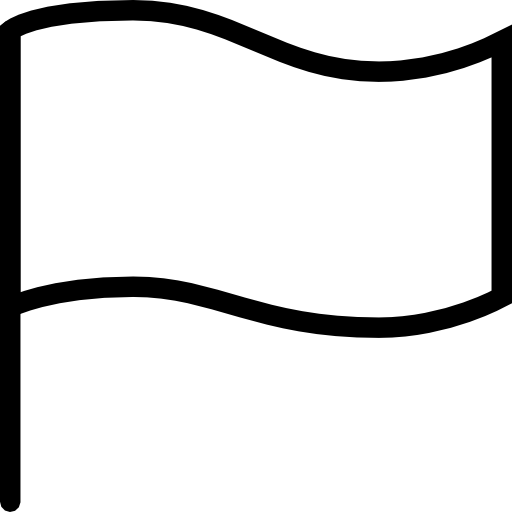
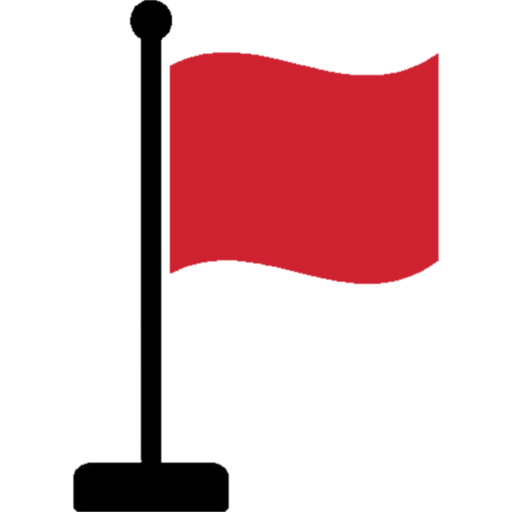
- graphics improved: images updated, numbers now have colours, cells now have an animation

diff --git a/Cell.cpp b/Cell.cpp
@@ -11,16 +11,19 @@ Cell::Cell(sf::Vector2i indexes, float side, sf::Font font) : indexes(indexes), 
     cellUnknownRect.rect.setPosition({pos.x + side / 2, pos.y + side / 2});
     cellDiscoveredRect.rect.setPosition({pos.x + side / 2, pos.y + side / 2});
 
+    if (!bombTexture.loadFromFile("Assets/Images/mine.png")) {
+        cout << "mine texture loading failed" << endl;
+        system("pause");
+    }
+    bombSprite.setScale({side * 0.75f / bombTexture.getSize().x, side * 0.75f / bombTexture.getSize().y});
     bombSprite.setPosition({pos.x + side / 2, pos.y + side / 2});
-    bombSprite.setOrigin({side / 3, side / 3});
-    bombSprite.setRadius(side / 3);
-    bombSprite.setFillColor(sf::Color::Black);
+    bombSprite.setOrigin({bombTexture.getSize().x / 2.f, bombTexture.getSize().y / 2.f});
 
     if (!flagTexture.loadFromFile("Assets/Images/flag.png")) {
         cout << "flag texture loading failed" << endl;
         system("pause");
     }
-    flagSprite.setScale({side * 0.5f / flagTexture.getSize().x, side * 0.5f / flagTexture.getSize().y});
+    flagSprite.setScale({side * 0.75f / flagTexture.getSize().x, side * 0.75f / flagTexture.getSize().y});
     flagSprite.setPosition({pos.x + side / 2, pos.y + side / 2});
     flagSprite.setOrigin({flagTexture.getSize().x / 2.f, flagTexture.getSize().y / 2.f});
 
@@ -37,28 +40,35 @@ void Cell::draw(sf::RenderWindow &window) {
     } else if (discovered) {
         cellDiscoveredRect.draw(window);
 
-        if (bomb)
-            window.draw(bombSprite);
+        if (!cellDiscoveredRect.isExpanding()) {
+            if (bomb) {
+                bombSprite.setTexture(bombTexture);
+                window.draw(bombSprite);
+            }
 
-        text.setString(to_string(adjacentBombs));
-        text.setFont(font);
-        text.setOrigin(text.getLocalBounds().width / 2 + text.getLocalBounds().left,
-                       text.getLocalBounds().height / 2 + text.getLocalBounds().top);
-        if (adjacentBombs != 0)
-            window.draw(text);
+            text.setString(to_string(adjacentBombs));
+            text.setFont(font);
+            text.setOrigin(text.getLocalBounds().width / 2 + text.getLocalBounds().left,
+                           text.getLocalBounds().height / 2 + text.getLocalBounds().top);
+            if (adjacentBombs > 0)
+                window.draw(text);
+        }
     }
 }
 
-void Cell::update(sf::RenderWindow &window, int deltaTime) {
+void Cell::update(sf::RenderWindow &window) {
+    cellUnknownRect.update(true, side);
+    cellDiscoveredRect.update(discovered, side);
+}
+
+void Cell::getMouseInput(sf::RenderWindow &window, Grid &grid) {
     if (cellUnknownRect.rect.getGlobalBounds().contains(window.mapPixelToCoords(sf::Mouse::getPosition(window)))) {
-        if (sf::Mouse::isButtonPressed(sf::Mouse::Left) && !flag)
+        if (sf::Mouse::isButtonPressed(sf::Mouse::Left) && !flag) {
             setDiscovered(true);
-        else if (sf::Mouse::isButtonPressed(sf::Mouse::Right) && !discovered)
+            grid.oldExpandingCells.push_back(this);
+        } else if (sf::Mouse::isButtonPressed(sf::Mouse::Right) && !discovered)
             flag = !flag;
     }
-
-    cellUnknownRect.update(true, side, deltaTime);
-    cellDiscoveredRect.update(discovered, side, deltaTime);
 }
 
 void Cell::setNeighbours(Grid &grid) {
@@ -69,18 +79,48 @@ void Cell::setNeighbours(Grid &grid) {
 }
 
 void Cell::setNumber(Grid &grid) {
-    for (auto neighbour: neighbours)
-        if (neighbour->bomb)
-            adjacentBombs++;
+    if (!bomb) {
+        for (auto neighbour: neighbours)
+            if (neighbour->bomb)
+                adjacentBombs++;
+    } else
+        adjacentBombs = -1;
+
+    switch (adjacentBombs) {
+        case 1:
+            text.setFillColor(sf::Color(10, 201, 201));
+            break;
+        case 2:
+            text.setFillColor(sf::Color(134, 201, 10));
+            break;
+        case 3:
+            text.setFillColor(sf::Color(201, 10, 176));
+            break;
+        case 4:
+            text.setFillColor(sf::Color(10, 74, 201));
+            break;
+        case 5:
+            text.setFillColor(sf::Color(201, 195, 10));
+            break;
+        case 6:
+            text.setFillColor(sf::Color(201, 10, 109));
+            break;
+        case 7:
+            text.setFillColor(sf::Color(201, 67, 10));
+            break;
+        case 8:
+            text.setFillColor(sf::Color(10, 201, 166));
+            break;
+    }
 }
 
-void Cell::setDiscovered(bool discovered) {
-    if (discovered) {
-        this->discovered = discovered;
-        if (adjacentBombs == 0) {
-            for (auto neighbour: neighbours)
-                if (!neighbour->getDiscovered())
-                    neighbour->setDiscovered(true);
+void Cell::expand(Grid &grid) {
+    if (adjacentBombs == 0) {
+        for (auto neighbour: neighbours) {
+            if (!neighbour->getDiscovered()) {
+                neighbour->setDiscovered(true);
+                grid.newExpandingCells.push_back(neighbour);
+            }
         }
     }
 }

diff --git a/Cell.h b/Cell.h
@@ -13,21 +13,22 @@ public:
     Cell(sf::Vector2i pos, float side, sf::Font font);
     ~Cell() = default;
 
-    void setBomb(bool bomb) {
-        Cell::bomb = bomb;
-        if (bomb)
-            adjacentBombs = -1;
-    }
+    void setBomb(bool bomb) { Cell::bomb = bomb; }
     bool hasBomb() { return bomb; }
 
     void draw(sf::RenderWindow &window);
-    void update(sf::RenderWindow &window, int deltaTime);
+    void update(sf::RenderWindow &window);
 
     void setNumber(Grid &grid);
 
     void setNeighbours(Grid &grid);
 
-    void setDiscovered(bool discovered);
+    void getMouseInput(sf::RenderWindow &window, Grid &grid);
+
+    void expand(Grid &grid);
+    bool isExpanding() { return cellDiscoveredRect.isExpanding(); }
+
+    void setDiscovered(bool discovered) { Cell::discovered = discovered; }
     bool getDiscovered() { return discovered; }
 
 private:
@@ -39,11 +40,16 @@ private:
 
     int adjacentBombs = 0;
 
-    CellRect cellUnknownRect = {sf::Color(20, 150, 57), sf::Color(239, 254, 255, 64)};
-    CellRect cellDiscoveredRect = {sf::Color(239, 254, 255), sf::Color(20, 150, 57, 64)};
+    // light mode
+    CellRect cellUnknownRect = {sf::Color(147, 184, 156), sf::Color(239, 254, 255, 64)};
+    CellRect cellDiscoveredRect = {sf::Color(239, 254, 255), sf::Color(147, 184, 156, 64)};
+    // dark mode
+    // CellRect cellUnknownRect = {sf::Color(196, 255, 213), sf::Color(0, 23, 7, 64)};
+    // CellRect cellDiscoveredRect = {sf::Color(0, 23, 7), sf::Color(196, 255, 213, 64)};
 
     bool bomb = false;
-    sf::CircleShape bombSprite;
+    sf::Texture bombTexture;
+    sf::Sprite bombSprite;
 
     bool flag = false;
     sf::Texture flagTexture;

diff --git a/Grid.cpp b/Grid.cpp
@@ -21,7 +21,7 @@ Grid::Grid(sf::Vector2u windowSize) {
     setNeighbours();
 
     // add obstacles to the grid
-    bombChance = 0.1;
+    bombChance = 0.15;
     addBombs();
 
     setNumbers();
@@ -74,9 +74,30 @@ void Grid::setNumbers() {
 }
 
 void Grid::update(sf::RenderWindow &window, int deltaTime) {
+    // check if some cells are still expanding
+    if (size(oldExpandingCells) > 0) {
+        if (timer > 0.05f) {
+            newExpandingCells = {};
+            for (auto cell: oldExpandingCells)
+                cell->expand(*this);
+
+            oldExpandingCells = newExpandingCells;
+            timer = 0;
+        }
+    } else
+        getMouseInput(window);
+
     for (int i = 0; i < gridSize.x; i++)
         for (int j = 0; j < gridSize.y; j++)
-            cells[i][j].update(window, deltaTime);
+            cells[i][j].update(window);
+
+    timer += deltaTime / 1000.f;
+}
+
+void Grid::getMouseInput(sf::RenderWindow &window) {
+    for (int i = 0; i < gridSize.x; i++)
+        for (int j = 0; j < gridSize.y; j++)
+            cells[i][j].getMouseInput(window, *this);
 }
 
 void Grid::draw(sf::RenderWindow &window) {

diff --git a/CellRect.cpp b/CellRect.cpp
@@ -11,26 +11,20 @@ CellRect::CellRect(sf::Color color, sf::Color outline) {
     rect.setOutlineThickness(1);
 }
 
-void CellRect::update(bool active, float side, int deltaTime) {
-    if (active != this->active) {
-        this->active = active;
-        timer = 0;
+void CellRect::update(bool active, float side) {
+    if (active) {
+        if (rect.getSize().x < side) {
+            rect.setSize({rect.getSize().x + 1, rect.getSize().y + 1});
+            expanding = true;
+        } else
+            expanding = false;
     } else {
-        if (timer > 1)
-            timer = 1;
-        else if (timer < 0)
-            timer = 0;
+        if (rect.getSize().x > 0)
+            rect.setSize({rect.getSize().x - 1, rect.getSize().y - 1});
     }
-
-    if (this->active)
-        rect.setSize({side * timer, side * timer});
-    else
-        rect.setSize({side * (1 - timer), side * (1 - timer)});
 
     // change the origin point
     rect.setOrigin(rect.getSize().x / 2, rect.getSize().y / 2);
-
-    timer += 5 * deltaTime / pow(10, 3);
 }
 
 void CellRect::draw(sf::RenderWindow &window) {

diff --git a/CellRect.h b/CellRect.h
@@ -8,6 +8,7 @@
 #include "SFML/Graphics.hpp"
 #include <iostream>
 #include <cmath>
+#include <list>
 using namespace std;
 
 class CellRect {
@@ -15,16 +16,19 @@ public:
     CellRect(sf::Color color, sf::Color outline);
     ~CellRect() = default;
 
-    void update(bool active, float side, int deltaTime);
+    void update(bool active, float side);
 
     void draw(sf::RenderWindow &window);
 
     sf::RectangleShape rect;
 
+    bool isExpanding() { return expanding; }
+
 private:
     sf::Vector2f pos;
-    float timer = 0;
+
     bool active = false;
+    bool expanding = false;
 };
 
 

diff --git a/Grid.h b/Grid.h
@@ -19,6 +19,9 @@ public:
 
     sf::Vector2i gridSize;
 
+    std::list<Cell*> oldExpandingCells = {};
+    std::list<Cell*> newExpandingCells = {};
+
 private:
     int scale;
     int side;
@@ -34,9 +37,14 @@ private:
 
     void setNumbers();
 
+    bool expanding = false;
+    void getMouseInput(sf::RenderWindow &window);
+
     bool is_equal(float a, float b) { return fabs(a - b) <= 0.01; }
 
     sf::Font font;
+
+    float timer = 0;
 };
 
 
